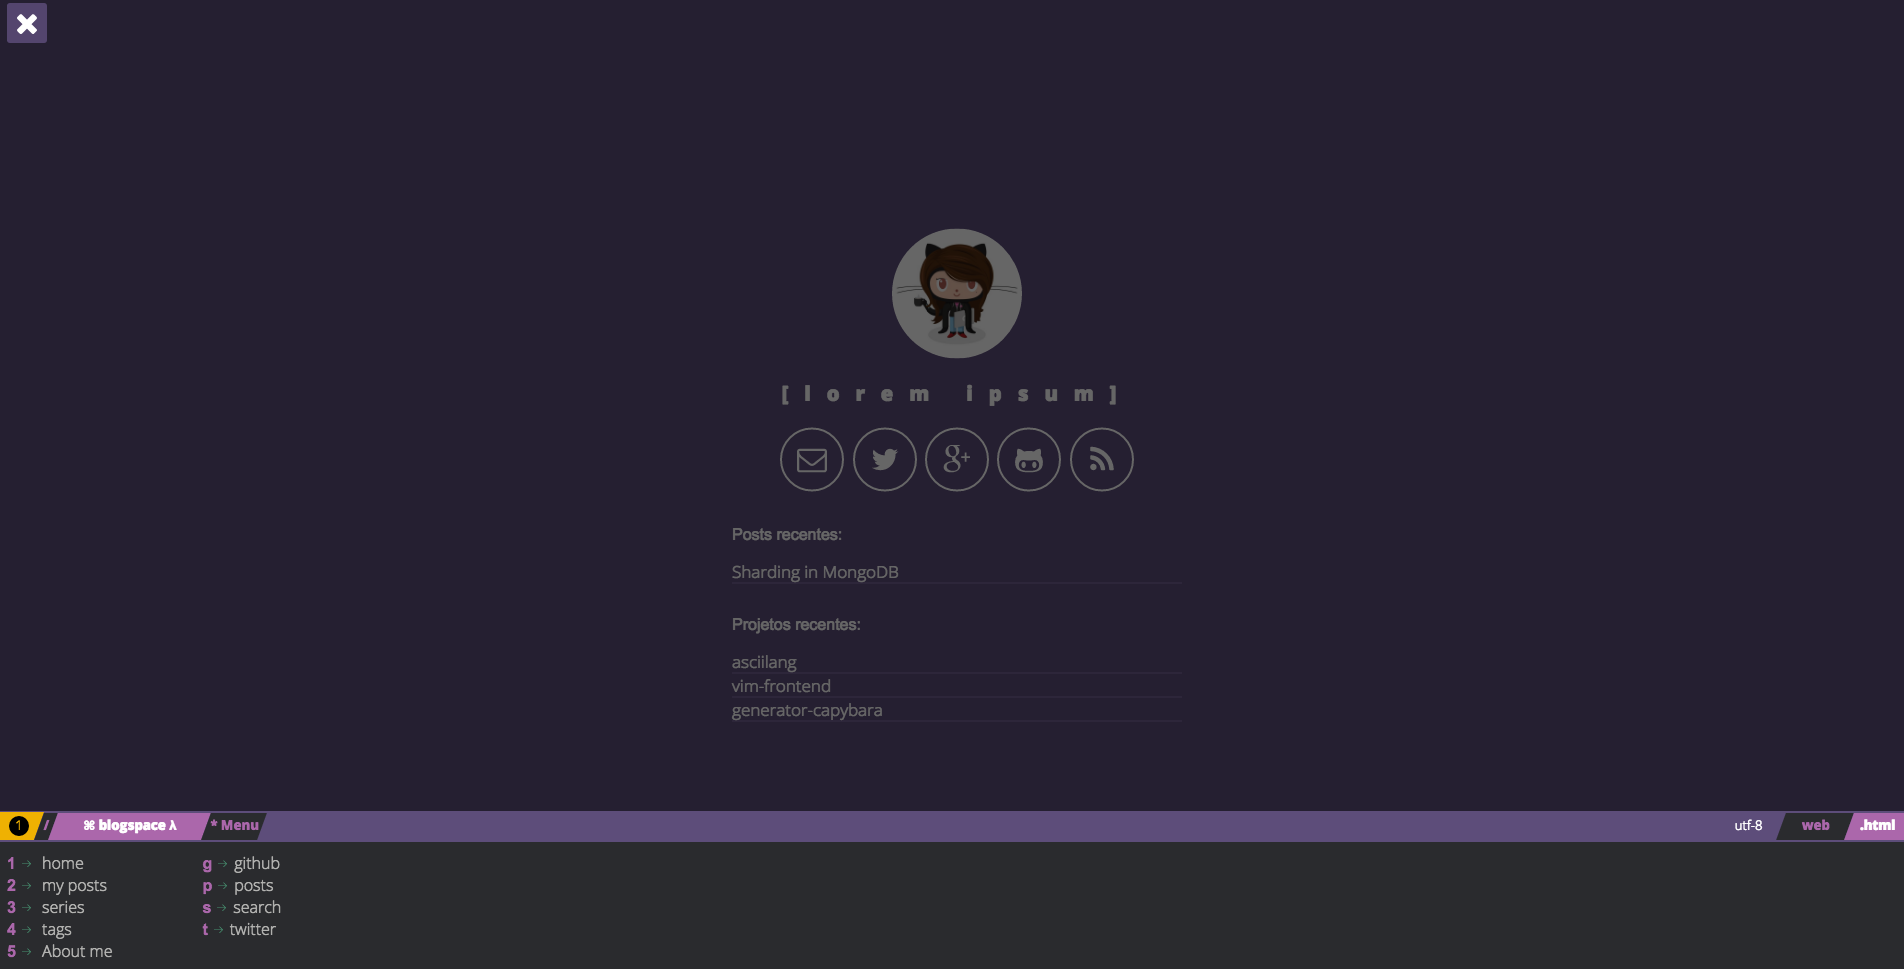
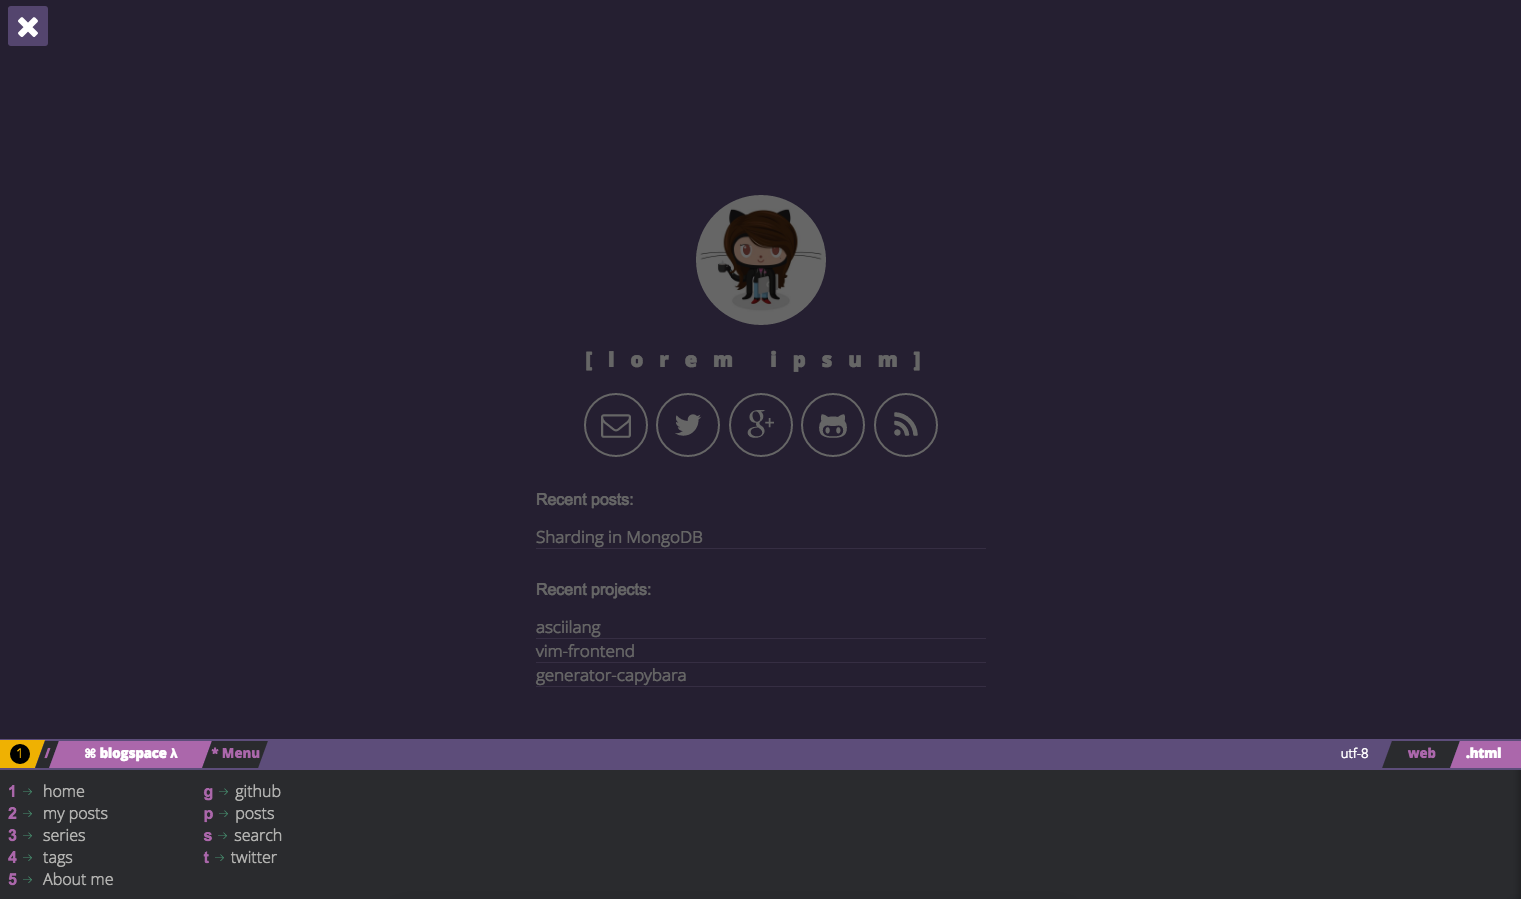
change wallp and text home

diff --git a/_includes/header-default.html b/_includes/header-default.html
@@ -14,13 +14,13 @@
             <a aria-label="Use the RSS to get updated" target="_blank" href="{{ "/feed.xml" | prepend: site.baseurl }}"><svg class="icon icon-rss"><use xlink:href="#icon-rss"></use></svg></a>
         </div>
         <ul class="recent">
-            <p>Posts recentes:</p>
+            <p>Recent posts:</p>
              {% for post in site.posts limit:3%}
                 <li><a href="{{ post.url | prepend: site.baseurl }}"><h2 class="post-title" itemprop="name">{{ post.title }}</h2></a></li>
               {% endfor %}
         </ul>
         <ul class="recent">
-            <p>Projetos recentes:</p>
+            <p>Recent projects:</p>
              {% for project in site.projects limit:3%}
                 <li><a href="{{ project.url}}"><h2 class="post-title" itemprop="name">{{ project.name }}</h2></a></li>
               {% endfor %}
